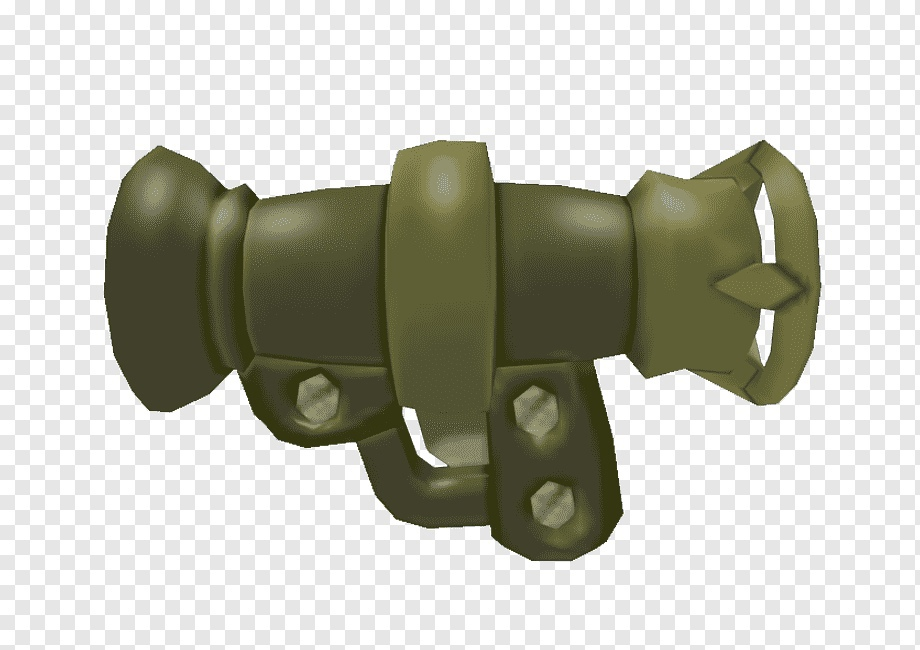
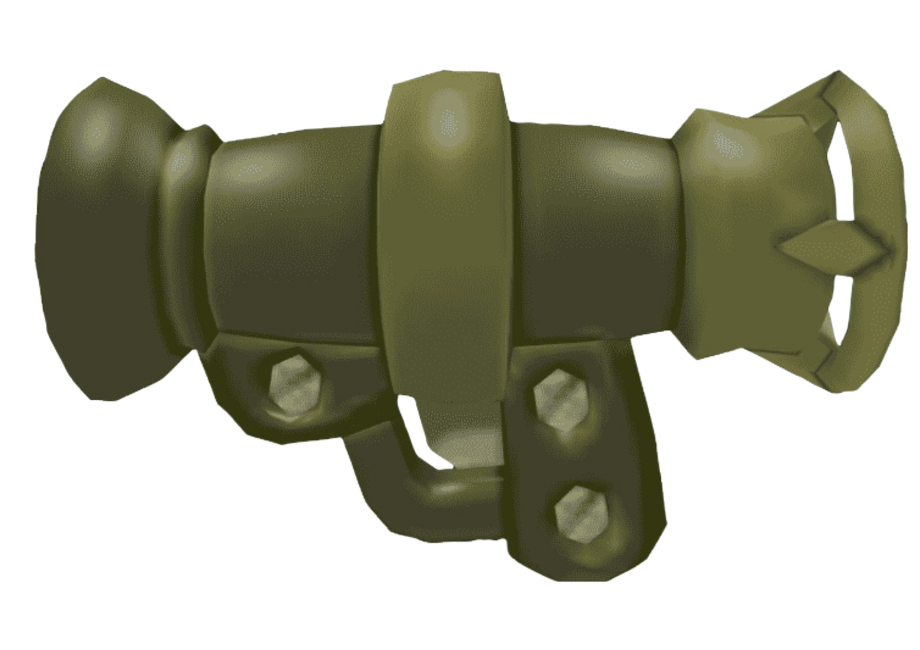
added weapons to player

diff --git a/objects.py b/objects.py
@@ -1,5 +1,6 @@
 import pygame
 import numpy as np
+import math
 from physics import calculate_accelerations
 from map_editor import map_collision, check_traj
 
@@ -8,33 +9,44 @@ class AbstractWeapon():
         self.name = ""
         self.caption = ""
         self.an = 0
+        self.wan = 0
         self.f_power = 0
         self.fire_on = False
         self.x = 0
         self.y = 0
-        self.r = 10
+        self.r = 20
         self.bullet = None
         self.orientation = None
         self.sprite = None
 
-    def targetting(self, event):
+    def targetting(self, event):    ######## Пофиксить прицеливание!!!!!!!!!!!!
         if event.type == pygame.KEYDOWN:
             if event.key == pygame.K_UP and self.an < 90:
-                self.an += 5
-            if event.key == pygame.K_DOWN and self.an > 0:
-                self.an -= 5
+                self.wan = -5
+            if event.key == pygame.K_DOWN and self.an > -90:
+                self.wan = 5
+        if self.an >= 80 or self.an <= -80:
+            self.wan = 0
+        if event.type == pygame.KEYUP:
+            if event.key == pygame.K_UP or event.key == pygame.K_UP:
+                self.wan = 0
+        
 
     def fire(self, event):
-        if event.type == pygame.KEYDOWN and event.key == K_SPACE:
+        if event.type == pygame.KEYDOWN and event.key == pygame.K_SPACE:
             self.fire_on = True
         if self.fire_on:
             if self.f_power < 30:
                 self.f_power += 1
-        if event.type == pygame.KEYUP and event.key == K_SPACE:
+        if event.type == pygame.KEYUP and event.key == pygame.K_SPACE:
             self.bullet.vx = self.f_power*math.cos(self.an)
             self.bullet.vy = -self.f_power*math.sin(self.an)
             self.fire_on = False
             return self.bullet
+
+    def update(self, event):##### Тут тоже!!!!!!!
+        self.targetting(event)
+        self.fire(event)
 
 
 class AbstractBullet():
@@ -47,30 +59,32 @@ class AbstractBullet():
         self.vy = 0
         self.ax = 0
         self.ay = 0
-        self.r = 5
+        self.r = 10
+        self.max_damage = 0
         self.fire_force = 0
         self.active = True
         self.orientation = None
         self.sprite = None
 
     def bullet_collision(self, borders, image_mass, players):
-        if map_collision(self, borders):
-            self.active = False
-            remove_part_of_map(self.x, self.y, self.fire_force, borders, image_mass)
-            for player in players:
-                dist = ( player.x - self.x ) ** 2 + ( player.y - self.y ) ** 2
-                if dist <= self.fire_force ** 2:
-                    collision_an = math.atan2((player.y - self.y), (player.x - self.x))    #Угол окидывания игрока
-                    player.health -= int( 125 - 125 * dist / self.fire_force )      #Нанесение урона игроку
-                    player.vx +=  math.cos(collision_an) * ( v_0 - v_0 * dist / self.fire_force )     #Откидывание игрока из-за взрыва
-                    player.vy +=  math.sin(collision_an) * ( v_0 - v_0 * dist / self.fire_force )
+        for player in players:
+            if object_collision(self, player) or map_collision(self, borders):
+                self.active = False
+                remove_part_of_map(self.x, self.y, self.fire_force, borders, image_mass)
+                for player in players:
+                    dist = ( player.x - self.x ) ** 2 + ( player.y - self.y ) ** 2
+                    if dist <= self.fire_force ** 2:
+                        collision_an = math.atan2((player.y - self.y), (player.x - self.x))    #Угол окидывания игрока
+                        player.health -= int( self.max_damage - self.max_damage * dist / self.fire_force )      #Нанесение урона игроку
+                        player.vx +=  math.cos(collision_an) * ( v_0 - v_0 * dist / self.fire_force )     #Откидывание игрока из-за взрыва
+                        player.vy +=  math.sin(collision_an) * ( v_0 - v_0 * dist / self.fire_force )
 
 
 class Rocket(AbstractBullet):
     def __init__(self):
         super().__init__()
         self.name = "Rocket"
-        self.an = 0
+        self.max_damage = 90
         self.fire_force = 15
         self.active = True
         self.orientation = "right"
@@ -96,6 +110,7 @@ class UziBullet(AbstractBullet):
         self.name = "UziBullet"
         self.an = 0
         self.fire_force = 4
+        self.max_damage = 50
         self.active = True
         self.orientation = "right"
         self.sprite = 'models/UziBullet.png'
@@ -108,7 +123,7 @@ class Uzi(AbstractWeapon):
         self.orientation = "left"
         self.caption = "Boom-Boom"
         self.bullet = "UziBullet"
-        self.sprite = 'models/Uzi.png'
+        self.sprite = 'models/uzi.png'
         self.bullet = UziBullet()
 
 
@@ -134,22 +149,26 @@ class Player():
         self.move_left = False
         self.move_right = False
         self.sprite = 'models/cat.png'
-        self.weapon = None
+        self.weapon = Uzi()
     
-    def give_weapon(self, dict_weapons, name):
-        self.weapon = dict_weapons[name]
-        self.weapon.x = self.x
-        self.weapon.y = self.y
-        self.weapon.orientation = self.orientation
-        return self.weapon
+    def give_weapon(self, event):
+        if event.type == pygame.KEYDOWN and event.key == pygame.K_1:
+            self.weapon = Bazooka()
+            self.weapon.x = self.x
+            self.weapon.y = self.y
+            self.weapon.orientation = self.orientation
+        if event.type == pygame.KEYDOWN and event.key == pygame.K_2:
+            self.weapon = Uzi()
+            self.weapon.x = self.x
+            self.weapon.y = self.y
+            self.weapon.orientation = self.orientation
 
     def weapon_update(self):
         if self.weapon != None:
             self.weapon.x = self.x
             self.weapon.y = self.y
             self.weapon.orientation = self.orientation
-        else:
-            pass
+
             
     def get_move(self, event):
         if event.type == pygame.KEYDOWN:
@@ -175,9 +194,9 @@ class Player():
             self.y -= 3
             #self.vx = 3 if self.orientation == "right" else -3
             if self.orientation == "right":
-                self.vx = 7
+                self.vx = 10
             elif self.orientation == "left":
-                self.vx = -7
+                self.vx = -10
             self.vy = -15
             self.start_jump = False
 
@@ -223,6 +242,12 @@ class Player():
             if not borders[self.y+self.r][i]:
                 self.on_ground = True
 
+
+class Death_water():
+    def __init__():
+        self.time = 300
+        self.y = 0
+        self.sprite = "models/water.png"
 
 if __name__ == "__main__":
     print("This module is not for direct call!")

diff --git a/vis.py b/vis.py
@@ -22,6 +22,22 @@ sc.fill((100, 150, 200))
 FPS = 60
 
 
+# def rot_center(image, angle):
+#     """поворачивает surface отн. центра."""
+
+#     loc = image.get_rect().center
+#     rot_sprite = pygame.transform.rotate(image, angle)
+#     rot_sprite.get_rect().center = loc
+#     return rot_sprite
+def rot_center(image, angle):
+    """rotate an image while keeping its center and size"""
+    orig_rect = image.get_rect()
+    rot_image = pygame.transform.rotate(image, angle)
+    rot_rect = orig_rect.copy()
+    rot_rect.center = rot_image.get_rect().center
+    rot_image = rot_image.subsurface(rot_rect).copy()
+    return rot_image
+
 class Explosion(pygame.sprite.Sprite):
     """Создание спрайта взрыва."""
     def __init__(self, center, size):
@@ -68,10 +84,11 @@ def draw_object(obj):
     """Рисует на экране произвольный объект."""
     surf=pygame.image.load(obj.sprite)
     surf=pygame.transform.scale(surf, (2*obj.r, 2*obj.r))
-    surf=pygame.transform.rotate(surf, obj.an)
+    surf = rot_center(surf, obj.an)
+    #surf=pygame.transform.rotate(surf, obj.an)
     if obj.orientation == "right":
         surf=pygame.transform.flip(surf,1, False)
-    surf.set_colorkey((255, 255, 255))
+    # surf.set_colorkey((255, 255, 255))
     sc.blit(surf, (obj.x-obj.r, obj.y-obj.r))
 
     

diff --git a/main.py b/main.py
@@ -16,7 +16,9 @@ cat = Player()
 inv = Inventory(sc, [cat.weapon])
 cat.x = 450
 cat.y = 50
-objects=[cat]
+players = [cat]
+weapons = []
+bullets = []
 game_map = Map()
 game_map.create_map('maps/map1.jpg')
 dt = 0.5
@@ -63,13 +65,18 @@ def game(beginning_flag, playing):
         if event.type == pygame.KEYDOWN or event.type == pygame.KEYUP:
             cat.get_move(event)
             walk.play(0)
+            cat.give_weapon(event)
         if event.type == pygame.MOUSEBUTTONDOWN:
             create_boom(*event.pos)
             pygame.display.update()
             all_sprites.update()
+        cat.weapon.update(event) 
+    cat.weapon.an +=cat.weapon.wan
     cat.move(game_map.borders)
     move_object(cat, dt, game_map.borders)
+    cat.weapon_update()
     draw_object(cat)
+    draw_object(cat.weapon)
     draw_health_box(cat)
     return beginning_flag, playing
 

diff --git a/physics.py b/physics.py
@@ -31,7 +31,7 @@ def move_object(body, dt, borders):
 
     
     body.vy += body.ay * dt  #Обновляем параметры по оси 0у
-    for i in range (0, abs(int( body.vy * dt + body.ay * dt**2 ))):    ######ПОФИКСИТЬ!!!!!!!!!!!!!!!!!!!!!!!!!!!!!!!!!!!!!!!!11
+    for i in range (0, abs(int( body.vy * dt + body.ay * dt**2 ))):    
         body.y += sign(body.vy)
         if map_collision(body, borders):
             body.vx, body.vy, body.ax, body.ay = 0, 0, 0, 0
